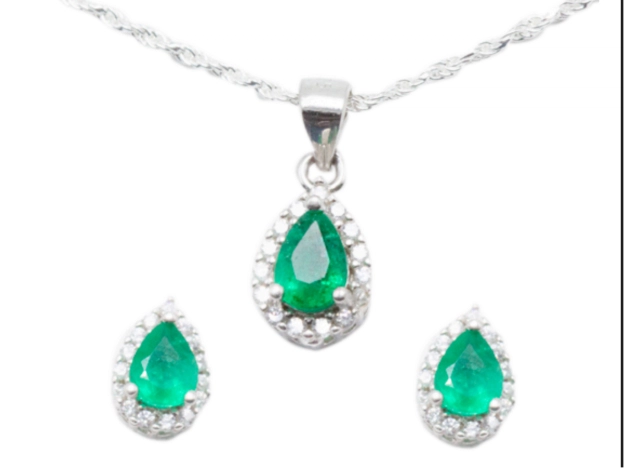
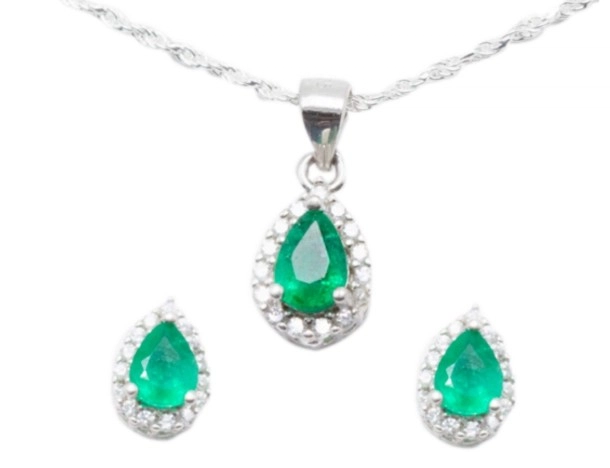
agregue el ultimo articulo la cadena

diff --git a/index.html b/index.html
@@ -2888,6 +2888,32 @@
     </div>
 </div>
 
+<!-- PRODUCTO 7 -->
+<div class="col-lg-3 col-md-4 col-sm-6">
+    <div class="product-card">
+        <div class="product-image">
+            <img src="imagenes/junio7.webp" onclick="openImage(this.src)">
+        </div>
+
+        <div class="product-info">
+            <h4>CADENA BALI DELGADA PAVONADA</h4>
+
+            <p>
+                <br><strong>Código:</strong> 1CV00005
+            </p>
+
+            <div class="product-price">
+                <span class="current-price">$1,300.00</span>
+            </div>
+
+            <button class="btn btn-pink w-100"
+                onclick="addToCart('CADENA BALI DELGADA PAVONADA', 1300, '1CV00005')">
+                Agregar
+            </button>
+        </div>
+    </div>
+</div>
+
 </div>
 
 </section>

diff --git a/vendors.js b/vendors.js
@@ -152,7 +152,7 @@ mapsEmbed:
     martiniana_bazan: {
 
         businessName: " Martiniana Bazán ",
-        owner: "Consultor: 1361",
+        owner: "Consultor: 1201",
         photo: "imagenes/martiniana_bazan.jpeg",
         phone: "[phone redacted]  ",
         whatsapp: "[phone redacted] ",